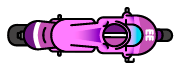
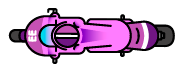
added helmets and bikes assets

diff --git a/src/app/Race.cpp b/src/app/Race.cpp
@@ -44,10 +44,10 @@ Race::Race()
     startingMarks.push_back(StartingMark(1105, 148, PI/2));
     startingMarks.push_back(StartingMark(1054, 211, PI/2));
     
-    bikes.push_back(new Bike(&assets->bike1));
-    bikes.push_back(new Bike(&assets->bike1));
-    bikes.push_back(new Bike(&assets->bike1));
-    bikes.push_back(new Bike(&assets->bike1));
+    bikes.push_back(new Bike(&assets->bike1, &assets->bikeGlow));
+    bikes.push_back(new Bike(&assets->bike2, &assets->bikeGlow));
+    bikes.push_back(new Bike(&assets->bike3, &assets->bikeGlow));
+    bikes.push_back(new Bike(&assets->bike4, &assets->bikeGlow));
 }
 
 
@@ -65,10 +65,11 @@ void Race::setup(){
     for(int i = 0; i < 4; i++){
         string name = assets->getPlayerName(i);
         ofColor color = assets->getPlayerColor(i);
+        ofImage* helmet = &assets->getHelmet(i);
         int ranking = i;
         
         if(name != ""){
-            players.push_back(new Player(name, bikes[i], color, ranking));
+            players.push_back(new Player(name, bikes[i], helmet, color, ranking));
         }
     }
     

diff --git a/src/app/Bike.cpp b/src/app/Bike.cpp
@@ -12,8 +12,9 @@
 #define TO_DEGREES 180.f/PI
 
 
-Bike::Bike(ofImage* img){
+Bike::Bike(ofImage* img, ofImage* _glow){
     image = img;
+    glow = _glow;
     
     acceleration = 0.4;
     friction = 0.85;
@@ -239,7 +240,12 @@ void Bike::draw(ofColor color){
     ofRotate(-rotation * TO_DEGREES);
     ofScale(scale, scale);
     
-    ofSetColor(color);
+    if(powerbar.isActive()){
+        glow->getTexture().setTextureMinMagFilter(GL_LINEAR,GL_LINEAR);
+        glow->bind();
+        mesh.draw();
+        glow->unbind();
+    }
     
     image->getTexture().setTextureMinMagFilter(GL_LINEAR,GL_LINEAR);
     image->bind();

diff --git a/src/assets.cpp b/src/assets.cpp
@@ -62,6 +62,26 @@ ofColor Assets::getPlayerColor(int i){
     }
 }
 
+ofImage& Assets::getHelmet(int i){
+    switch (i) {
+        case 0:
+            return helmet1;
+            break;
+        case 1:
+            return helmet2;
+            break;
+        case 2:
+            return helmet3;
+            break;
+        case 3:
+            return helmet4;
+            break;
+        default:
+            return helmet1;
+            break;
+    }
+}
+
 int Assets::getNumLaps(){
     return getData("num_laps").asInt();
 }

diff --git a/src/app/Player.h b/src/app/Player.h
@@ -17,9 +17,10 @@ class Player {
     
 public:
   
-    Player(string _name, Bike* _bike, ofColor _color, int _rankPos)
+    Player(string _name, Bike* _bike, ofImage* _helmet, ofColor _color, int _rankPos)
     :name(_name)
     ,bike(_bike)
+    ,helmet(_helmet)
     ,color(_color)
     ,rankPos(_rankPos)
     ,completedLaps(0)
@@ -37,4 +38,6 @@ public:
     float lapPercent;
     
     Bike* bike;
+    
+    ofImage* helmet;
 };

diff --git a/src/app/Bike.h b/src/app/Bike.h
@@ -31,7 +31,7 @@ class Bike {
     
 public:
     
-    Bike(ofImage* image);
+    Bike(ofImage* image, ofImage* glow);
     
     void reset(ofVec2f pos, float rot);
     
@@ -98,6 +98,7 @@ private:
     
     float length, width;
     ofImage* image;
+    ofImage* glow;
     ofVboMesh mesh;
     
     // rect corners

diff --git a/src/assets.h b/src/assets.h
@@ -35,6 +35,7 @@ public:
     ofImage helmet2;
     ofImage helmet3;
     ofImage helmet4;
+    ofImage& getHelmet(int i);
     
     ofImage powerup1;
     ofImage powerup2;
